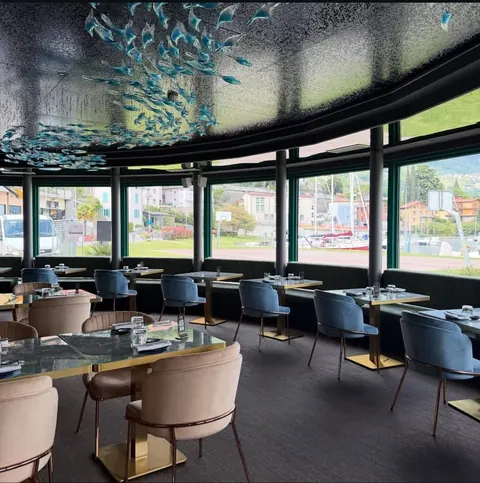
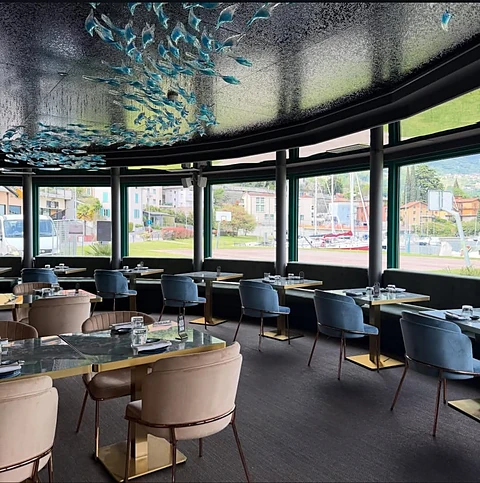
Hero: tolto lo zoom, immagini hero rigenerate a qualita' alta
- Rimosso l'effetto Ken Burns: le foto originali dell'hero sono a bassa
  risoluzione (~1080px) e qualsiasi ingrandimento le rendeva sfocate.
  Ora c'e' solo la dissolvenza incrociata, immagini ferme e nitide.
- Immagini hero rigenerate a qualita' 90 con leggero sharpen.
- _ottimizza-immagini.py: qualita' per cartella, hero piu' alta.

diff --git a/styles.css b/styles.css
@@ -324,14 +324,11 @@ body.nav-aperta { overflow: hidden; }
 }
 .hero__slide img {
   object-fit: cover;
-  transform: scale(1.0);
+  object-position: center;
 }
-/* Ken Burns "al contrario": la slide entra leggermente zoomata e si allarga
-   fino all'immagine intera, così l'ultimo fotogramma è quello più nitido. */
-.hero__slide.is-attiva img {
-  animation: kenburns 6s ease-out forwards;
-}
-@keyframes kenburns { from { transform: scale(1.06); } to { transform: scale(1.0); } }
+/* Niente zoom sulle immagini dell'hero: le foto originali non hanno
+   risoluzione sufficiente e qualsiasi ingrandimento le rende sfocate.
+   Resta solo la dissolvenza incrociata tra una foto e l'altra. */
 
 /* fallback senza JS: mostra la prima slide */
 .no-js .hero__slide:first-child { opacity: 1; }
@@ -773,5 +770,4 @@ body.nav-aperta { overflow: hidden; }
     transition-duration: .001ms !important;
   }
   .hero__slide { transition: none; }
-  .hero__slide img, .hero__slide.is-attiva img { animation: none; transform: none; }
 }

diff --git a/script.js b/script.js
@@ -228,13 +228,6 @@ function initHero() {
     corrente = (i + slides.length) % slides.length;
     slides[corrente].classList.add("is-attiva");
     dots[corrente].setAttribute("aria-selected", "true");
-    // forza il restart dell'animazione Ken Burns
-    const img = $("img", slides[corrente]);
-    if (img && !prefersReducedMotion()) {
-      img.style.animation = "none";
-      void img.offsetWidth;
-      img.style.animation = "";
-    }
   }
 
   function avanti() { vaiA(corrente + 1); }

diff --git a/_ottimizza-immagini.py b/_ottimizza-immagini.py
@@ -1,32 +1,40 @@
 """Genera versioni WebP + JPEG responsive (480/960/1440 px) dalle foto sorgente.
-Non modifica gli originali. Da rieseguire se si aggiungono foto."""
-from PIL import Image
+Non modifica gli originali. Da rieseguire se si aggiungono o si cambiano foto.
+
+Uso:  python _ottimizza-immagini.py
+"""
+from PIL import Image, ImageFilter
 import glob, os
 
-CARTELLE = ["assets/images/hero", "assets/images/locale", "assets/images/piatti"]
 LARGHEZZE = [480, 960, 1440]
-Q_WEBP = 78
-Q_JPEG = 82
 
-def elabora(path):
+# Qualita' per cartella. L'hero e' lo showcase del sito: qualita' alta.
+IMPOSTAZIONI = {
+    "assets/images/hero":   {"webp": 90, "jpeg": 90, "sharpen": True},
+    "assets/images/locale": {"webp": 80, "jpeg": 84, "sharpen": False},
+    "assets/images/piatti": {"webp": 80, "jpeg": 84, "sharpen": False},
+}
+
+
+def elabora(path, cfg):
     base, _ = os.path.splitext(path)
-    # salta i file gia generati
     if any(base.endswith(f"-{w}") for w in LARGHEZZE):
-        return
+        return  # e' gia' una versione generata, la salto
     im = Image.open(path).convert("RGB")
     w0, h0 = im.size
     for w in LARGHEZZE:
-        if w > w0:
-            ww, hh = w0, h0
-        else:
-            ww, hh = w, round(h0 * w / w0)
+        ww = min(w, w0)
+        hh = round(h0 * ww / w0)
         ridim = im.resize((ww, hh), Image.LANCZOS)
-        ridim.save(f"{base}-{w}.webp", "WEBP", quality=Q_WEBP, method=6)
-        ridim.save(f"{base}-{w}.jpg", "JPEG", quality=Q_JPEG, optimize=True, progressive=True)
+        if cfg["sharpen"]:
+            ridim = ridim.filter(ImageFilter.UnsharpMask(radius=1.0, percent=60, threshold=2))
+        ridim.save(f"{base}-{w}.webp", "WEBP", quality=cfg["webp"], method=6)
+        ridim.save(f"{base}-{w}.jpg", "JPEG", quality=cfg["jpeg"], optimize=True, progressive=True)
         print(f"  {os.path.basename(base)}-{w}  {ww}x{hh}")
 
-for c in CARTELLE:
-    print(c)
-    for p in sorted(glob.glob(f"{c}/*.jpg")):
-        elabora(p)
+
+for cartella, cfg in IMPOSTAZIONI.items():
+    print(cartella)
+    for p in sorted(glob.glob(f"{cartella}/*.jpg")):
+        elabora(p, cfg)
 print("Fatto.")
